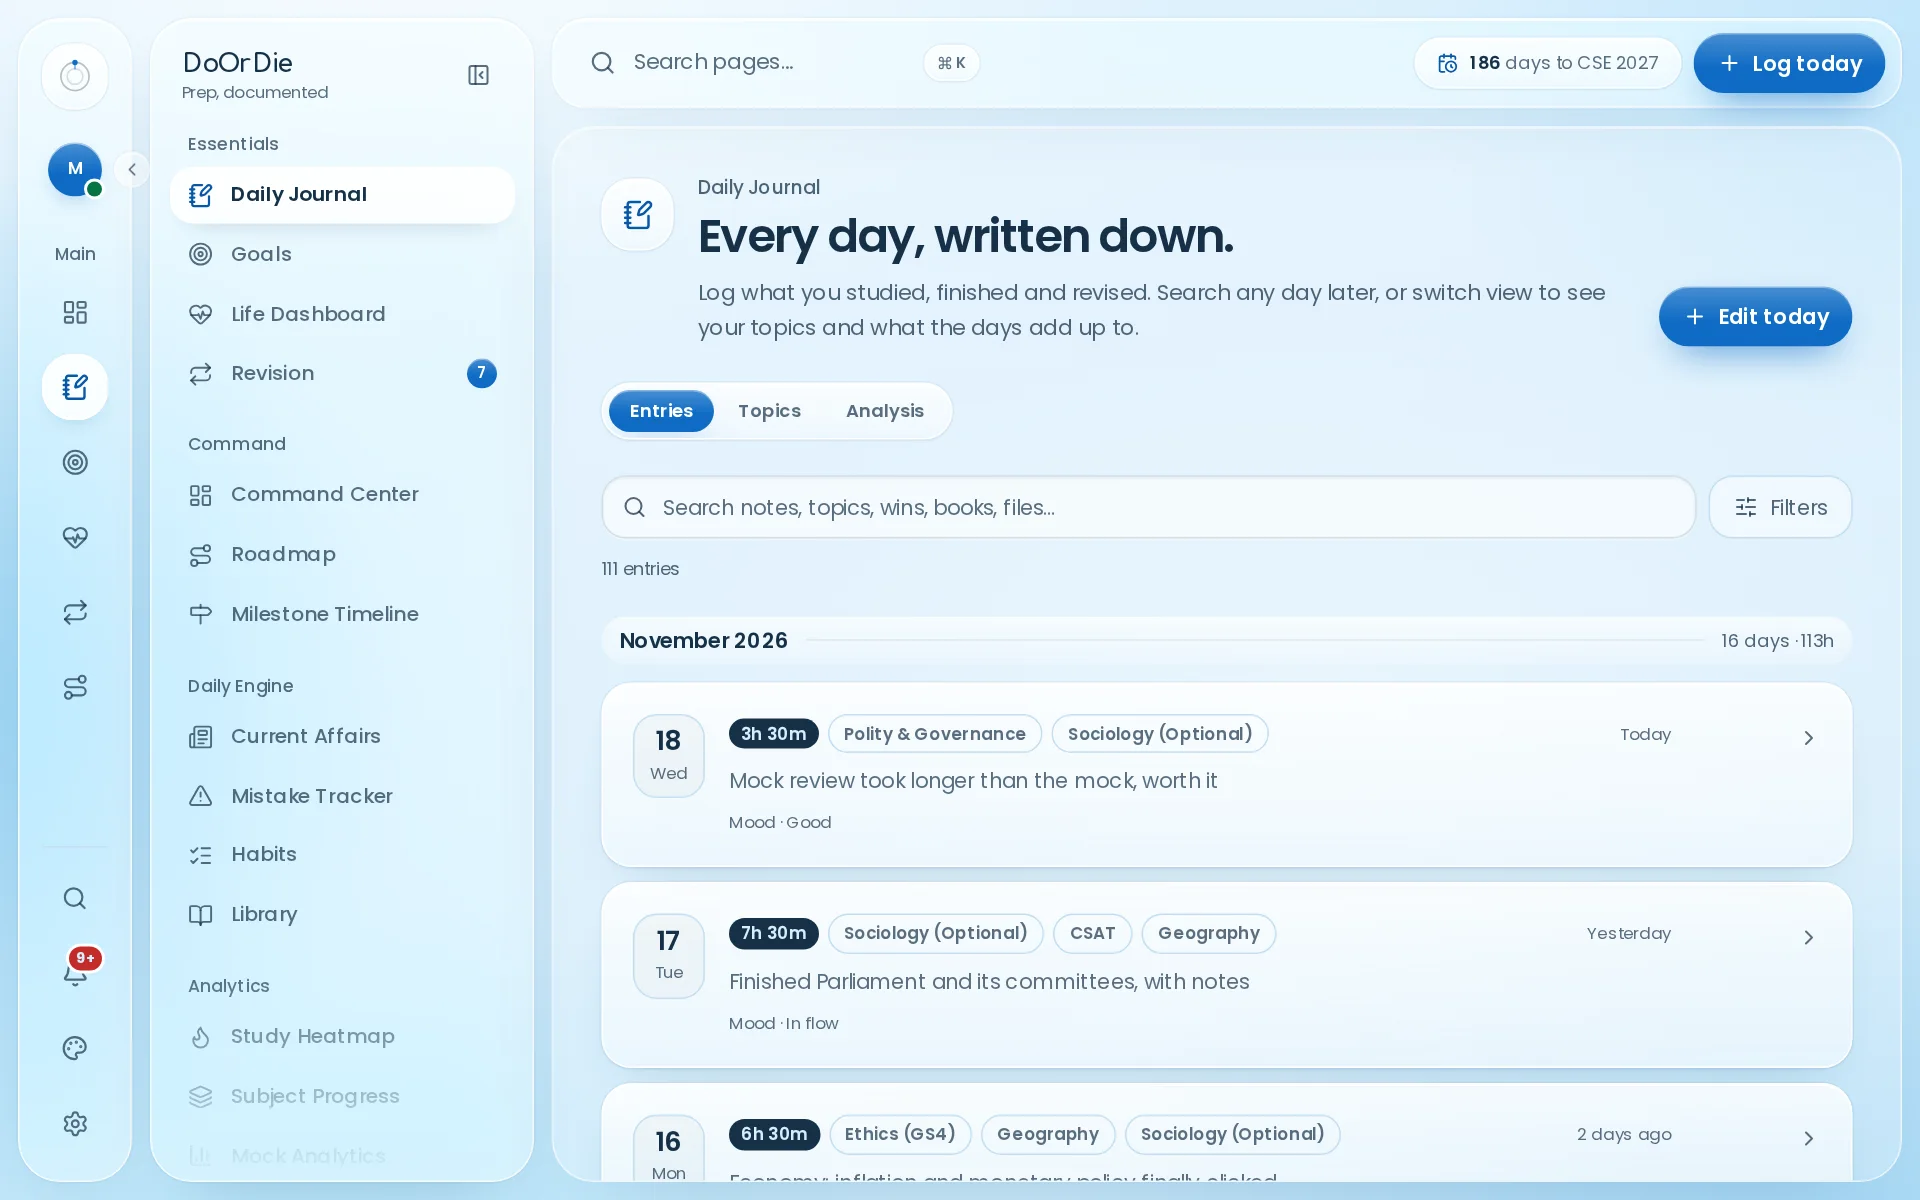
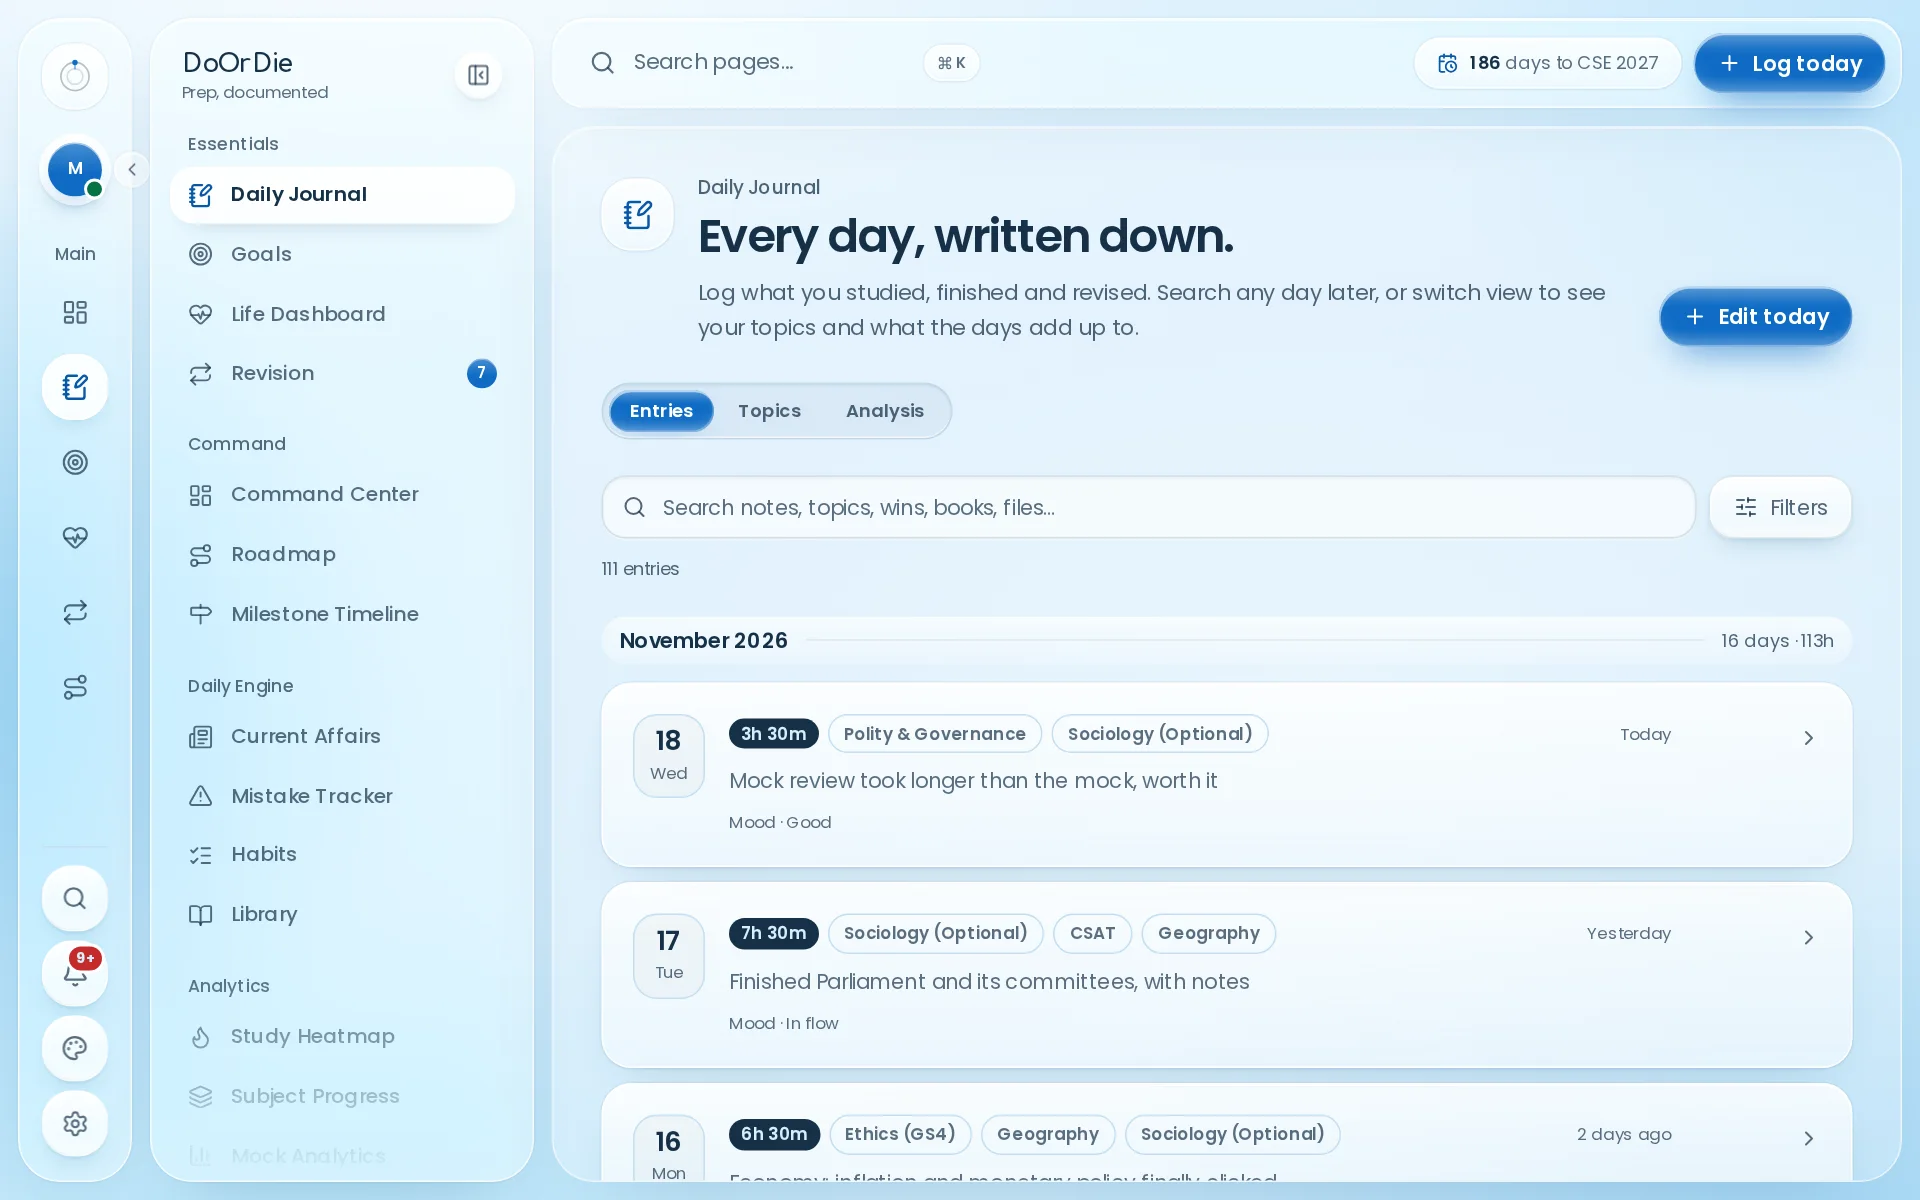
Document pure black and the glass buttons; retake the site's pictures
docs/design-system.md describes the pure black Dark theme with its
measured contrast, and a new section on liquid glass buttons: the two
kinds, what gets each, what keeps its own look, and how a button opts
out. The README mentions the buttons.

The public site's product screenshots and the social sharing card are
retaken from the app with the sample account, so they show the glass
buttons.

diff --git a/docs/design-system.md b/docs/design-system.md
@@ -1,7 +1,7 @@
 # Design system
 
 DoOrDie's look: **calm frosted glass**. Translucent panes on a soft sky-blue
-backdrop with one luminous blue by day, black glass with white buttons by
+backdrop with one luminous blue by day, pure black with white buttons by
 night, Poppins throughout the app, and depth from soft wide shadows and lit
 edges rather than hard borders.
 
@@ -50,14 +50,15 @@ colours.
 | Theme | Canvas | Panes | Text | Accent |
 | --- | --- | --- | --- | --- |
 | **Light** (default) | pale sky `rgb(214 238 251)` under a layered sky | white at 60%, a top sheen and a bright rim | navy `#163147` | `#0E6BC4` fills with white text; `#0A58A6` for accent text |
-| **Dark** | near-black `rgb(8 8 9)` under a soft spotlight from above | charcoal `rgb(30 30 32)` at 70%, a fine lit top edge | soft white `#EDEDED` | white fills with black text; white for accent text |
+| **Dark** | pure black `#000`, with no glow | charcoal glass `rgb(28 28 31)` at 72% (a `#141416` card on black), a fine lit top edge | soft white `#EDEDED` | white fills with black text; white for accent text |
 | **Lavender** | near-white `rgb(247 246 252)` under pastel glows | crisp white at 90%, a lavender-grey edge, soft violet-tinted shadows | ink `#181828` | violet `#6C5CE7` fills with white text; `#5848D6` for accent text |
 
 **Light** is a soft sky of layered cyan and pale-blue light, brightest at the
 top left, with frosted white panes, soft blue-grey shadows and one luminous
-blue. **Dark** is black glass with no blue in its surfaces: a near-black
-backdrop lit softly from above, charcoal panes with a lit top edge, tiles a
-step lighter, and white for what's interactive. Primary buttons are white
+blue. **Dark** is pure black with no blue in its surfaces: the background,
+the page's stage and the navigation are `#000`, set apart by fine hairlines;
+cards are charcoal glass with a lit top edge, tiles a step lighter, and white
+is for what's interactive. Primary buttons are white
 with black text, selected items a lighter grey, and single-series charts,
 progress and heatmaps are drawn in white and greys. Colour is kept for
 meaning: status colours, and the categorical chart colours (white, lime,
@@ -75,10 +76,10 @@ pink, amber and blue.
 
 | | Light | Dark | Lavender |
 | --- | --- | --- | --- |
-| text on a pane | 11–13:1 | 13.7–15.4:1 | 16.8–17.5:1 |
-| accent text on a pane | 5.8–6.8:1 | 16–18:1 (white) | 5.3–6.3:1 |
+| text on a pane | 11–13:1 | 13.2–15.7:1 (18:1 on the background) | 16.8–17.5:1 |
+| accent text on a pane | 5.8–6.8:1 | 15.5–18.4:1 (white) | 5.3–6.3:1 |
 | text on an accent fill | 5.4:1 (white) | 18:1 (black on white) | 4.9:1 (white) |
-| status colours on a pane or tile | 4.6–6.3:1 | 4.9–11.8:1 | 4.6–5.7:1 |
+| status colours on a pane or tile | 4.6–6.3:1 | 5.6–12:1 (4.6:1 on a tile with Reduce transparency) | 4.6–5.7:1 |
 
 Quiet text is written as low-opacity ink (`text-paper/40`), which suits an
 opaque card but is hard to read on glass. Every step below the theme's floor
@@ -155,6 +156,27 @@ visible, so their glass comes from translucency, the sheen, the glint and the
 edge, painted as backgrounds and shadows on the element itself. A dialog over
 a blurred scrim skips its own blur (`.glass-on-scrim`): one backdrop filter
 per layer, never two. Phones use smaller blur radii.
+
+### Buttons: liquid glass
+
+Every button is liquid glass, in two kinds. Each theme sets the values
+(`--lg-*` in the "Liquid glass buttons" block near the top of
+`globals.css`) and one set of rules draws them (in the Materials section):
+
+| Kind | What gets it | Look |
+| --- | --- | --- |
+| clear | `Button` ghost, outline, subtle and danger; `IconButton`; `Chip`; anything with `.lg-clear`; any button or link that is a hairline pill (`border-line rounded-full`) or a centred hairline button (`rounded-lg`/`rounded-xl` with `justify-center` or `place-items-center`); any quiet round or rounded icon button with no fill of its own | a translucent fill that blurs what's behind it (`--lg-blur`, 14px, 8px on phones), a bright rim lit from the top left, a softer rim at the bottom right, light pooled along the bottom edge, a soft drop |
+| tinted | any button or link filled with the accent: the main action, the selected segment, selected toggles | the accent with the same rims and a sheen that stays clear of the label, so text keeps its contrast; danger, success and warning fills get the same in their own colour |
+
+A selected chip keeps its accent wash under clear glass. A segmented
+control's track is a shallow groove (`.lg-track`) the tinted segment sits
+in. Switches stay switches, and cards, list rows and form fields are not
+buttons, so they keep their own materials. Navigation links (the sidebar,
+the rail's page shortcuts, the phone dock) stay navigation items, so actions
+stand out from them; the rail's utilities (search, notifications,
+appearance, settings) are glass buttons. A button opts out of the automatic
+glass by having a resting `bg-` utility. With Reduce transparency the glass
+turns solid: no blur, and an opaque fill in the theme's colours.
 
 **Reduce transparency** (in Appearance, synced as `reduceTransparency`, or
 asked for by the device through `prefers-reduced-transparency`) makes every

diff --git a/README.md b/README.md
@@ -12,8 +12,8 @@ their devices through Supabase and kept within Supabase's free plan.
 - **Files attached to journal days:** [`docs/attachments.md`](docs/attachments.md).
 - **The four everyday modules:** [Daily Journal](docs/daily-journal.md),
   [Life Dashboard](docs/life-dashboard.md) (including sleep), and the look:
-  the layout, the three themes (Light and Dark, both frosted glass, and
-  Lavender) and Reduce transparency in the
+  the layout, the three themes (Light, Dark and Lavender), liquid glass
+  buttons and Reduce transparency in the
   [design system](docs/design-system.md).
 - **The Roadmap** (your own yearly, monthly and weekly plans):
   [`docs/roadmap.md`](docs/roadmap.md).
